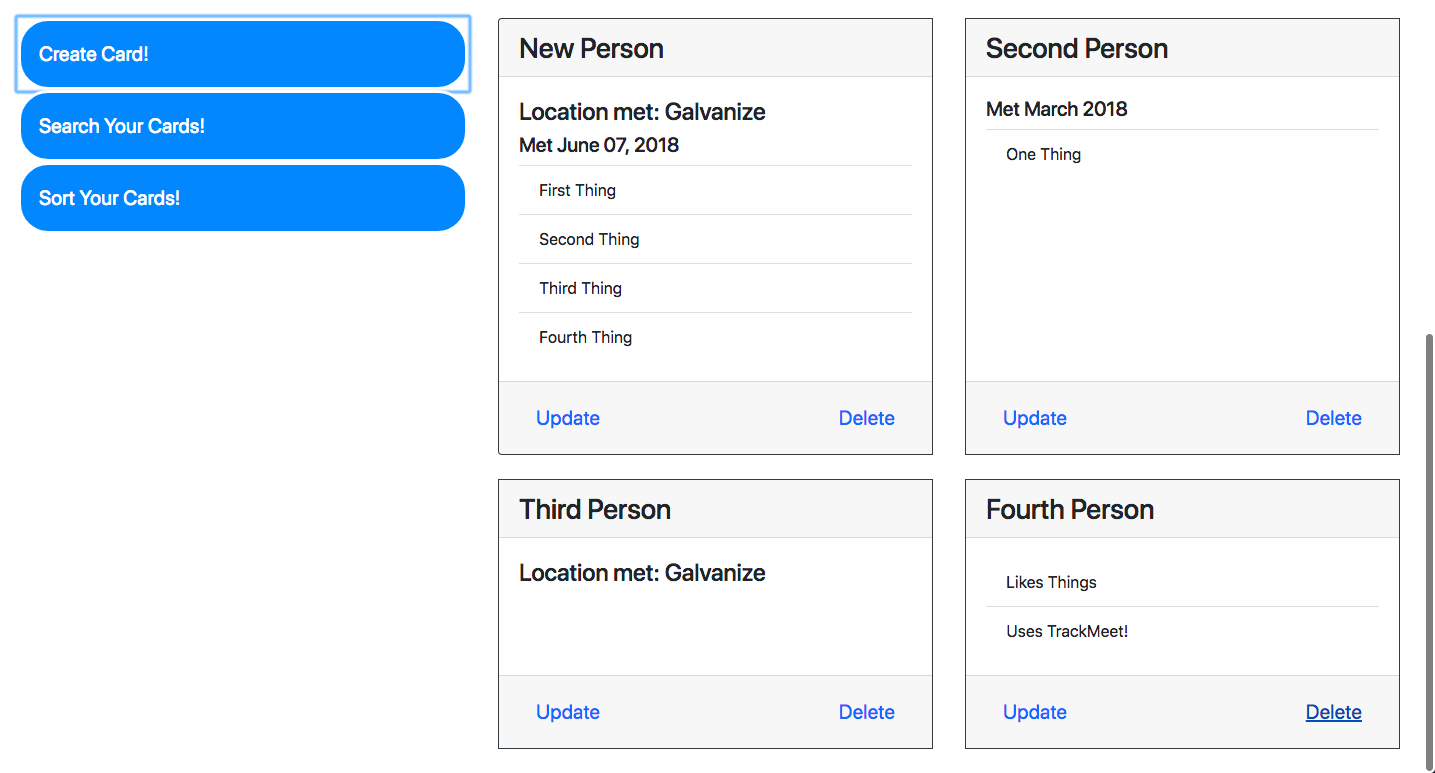
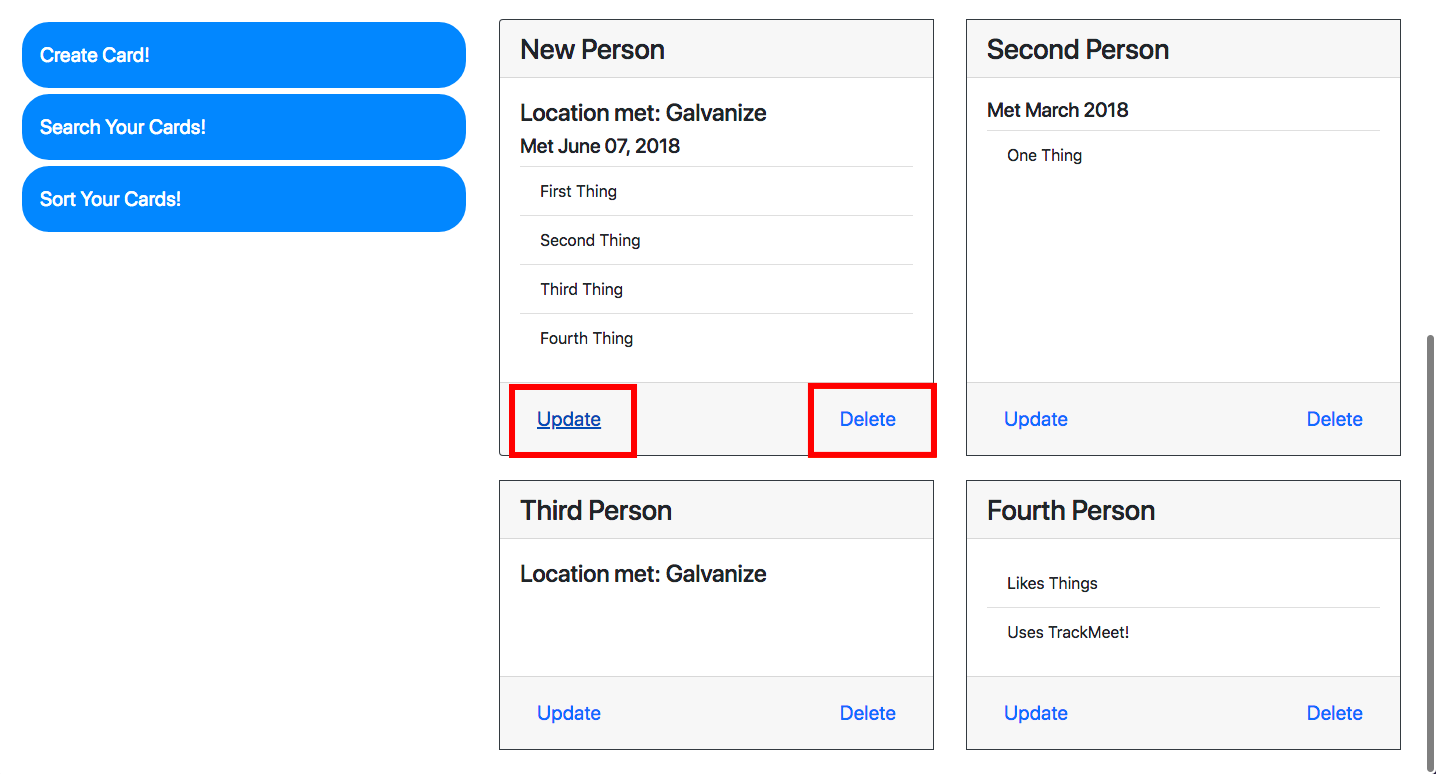
edited pictures with markups and wrote my read-me

diff --git a/README.md b/README.md
@@ -11,30 +11,46 @@ Hello and welcome to TrackMeet! This app was designed to help you keep track of 
 
 ## How it Works
 
+### Create a Card
+
+You can create a card easily. Your first step is to click the menu item on the left that says "Create Card!", outlined below in red.
 ![screenshot](/screenshots/screenshot-01.png)
 
+This will open up a form where you can fill in a person's first name, last name, the day you met, where you met, as well as some interesting attributes about him or her.
 ![screenshot](/screenshots/screenshot-02.png)
 
+There are three attribute fields by default, but if you would like to add more, click the add "attribute" button, outlined below in red.
 ![screenshot](/screenshots/screenshot-03.png)
 
+This will pull up a new attribute box for you to fill in. You can add as many as you'd like.
 ![screenshot](/screenshots/screenshot-04.png)
 
+Click the "Create" button on the bottom, and your card will render.
 ![screenshot](/screenshots/screenshot-05.png)
 
+You can add as many cards as you like. It is NOT required for you to fill in EVERY field in the form, you can choose to leave some out. The cards will still render, as shown below. The only thing you need to add is a first name.
 ![screenshot](/screenshots/screenshot-06.png)
 
+### Card Features
+
+Each card has buttons that allows you to update and delete your card.
 ![screenshot](/screenshots/screenshot-07.png)
 
+When you press "update", all the information will re-render in the "Create" form for you to make edits. In this case, we are changing the name of "New Person" to "First Person"
 ![screenshot](/screenshots/screenshot-08.png)
 
+Your card will re-render, with its updated information, along with the other cards!
 ![screenshot](/screenshots/screenshot-09.png)
 
+### Search and Sort Your Cards
+
+If you want to search your cards to see if it matches a certain value you have in mind, open the "Search Your Cards" menu item on the left. A new form will open.
 ![screenshot](/screenshots/screenshot-10.png)
 
+Type in any keyword and press "Search", all cards containing your keyword will render. To re-render all of your cards, click the "Reset" button in your form.
+
+Note: You will NOT be able to update and delete your cards directly after you make your search, hence why the buttons have disappeared. The buttons will re-appear after you reset.
 ![screenshot](/screenshots/screenshot-11.png)
 
+You can also sort your cards in order of first name, last name, and date of meeting. You can do this by opening the "Sort Your Cards" menu item. Click any of the buttons to make your search. This time, you WILL be able to make updates and delete cards as well!
 ![screenshot](/screenshots/screenshot-12.png)
-
-![screenshot](/screenshots/screenshot-13.png)
-
-![screenshot](/screenshots/screenshot-14.png)
